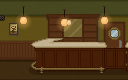
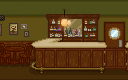
Shadows & bar base

diff --git a/game/fighter.js b/game/fighter.js
@@ -67,6 +67,10 @@ export class Fighter {
     #bloodAnimState = -1;
     #bloodLoc = { x: 0, y: 0 };
 
+    static shadowSize = { w: 12, h: 2 };
+    static shadowOpacity = 0.2;
+    static shadowJump = 25;
+
     static hitboxesOffset = [
         { x: 15, y: 12 },
         { x: 10, y: 18 },
@@ -327,6 +331,22 @@ export class Fighter {
 
     Draw(ctx) {
         ctx.save();
+
+        // Shadow
+        const y = this.#engine.groundY;
+        const x = this.#loc.x + (this.#size.w / 2) + ((Fighter.shadowSize.w / 2 - 2) * (this.#facingRight ? -1 : 1));
+        const heightFactor = Math.max(0, 1 + ((this.#loc.y - y + 39) / (Fighter.shadowJump * 2)));
+
+        ctx.save();
+        ctx.beginPath();
+
+        ctx.fillStyle = `rgba(0, 0, 0, ${Fighter.shadowOpacity * heightFactor})`;
+
+        ctx.ellipse(x, y - Fighter.shadowSize.h / 2, Fighter.shadowSize.w * heightFactor, Fighter.shadowSize.h * heightFactor, 0, 0, Math.PI * 2);
+        
+        ctx.fill();
+        ctx.restore();
+
 
         if (!this.#facingRight) {
             ctx.translate(this.#loc.x + this.#size.w / 2, 0);

diff --git a/game/engine.js b/game/engine.js
@@ -17,6 +17,7 @@ export class FighterEngine {
     #objects = [];
 
     #backgroundImage = Object.assign(new Image(), { src: "assets/bar.png" });
+    #foregroundImage = Object.assign(new Image(), { src: "assets/bar_foreground.png" });
 
     #mainMenu = null;
     #fighter0 = null;
@@ -147,7 +148,8 @@ export class FighterEngine {
             this.#greenFontSheet = FighterEngine.extractChannelMask(FighterEngine.uiSheet, "g");
         }
 
-        this.SetGameState(0);
+        // this.SetGameState(0);
+        this.SetGameState(2, 0);
 
         window.onbeforeunload = () => {
             this.Disconnect();
@@ -342,6 +344,10 @@ export class FighterEngine {
         }
 
         this.#ctx.restore();
+
+        if (this.#gameState !== "GAME_OVER" && this.#foregroundImage && this.#foregroundImage.complete) {
+            this.#ctx.drawImage(this.#foregroundImage, (scrollX | 0), 0, (this.#worldWidth | 0), (this.#canvasSize.h | 0));
+        }
 
         for (let i = 0; i < this.#objects.length; i++) {
             if (this.#objects[i].DrawUI) this.#objects[i].DrawUI(this.#ctx);
